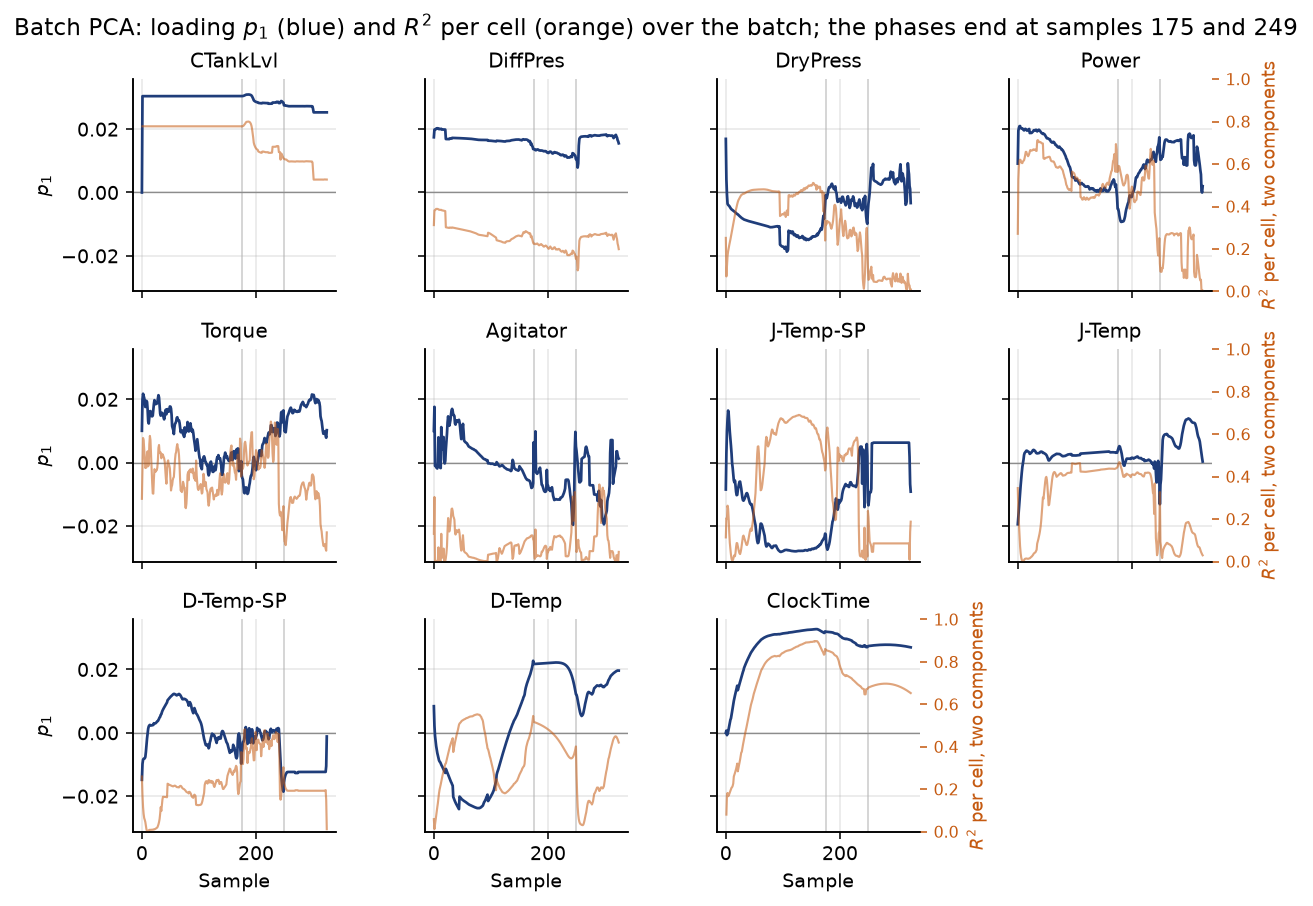
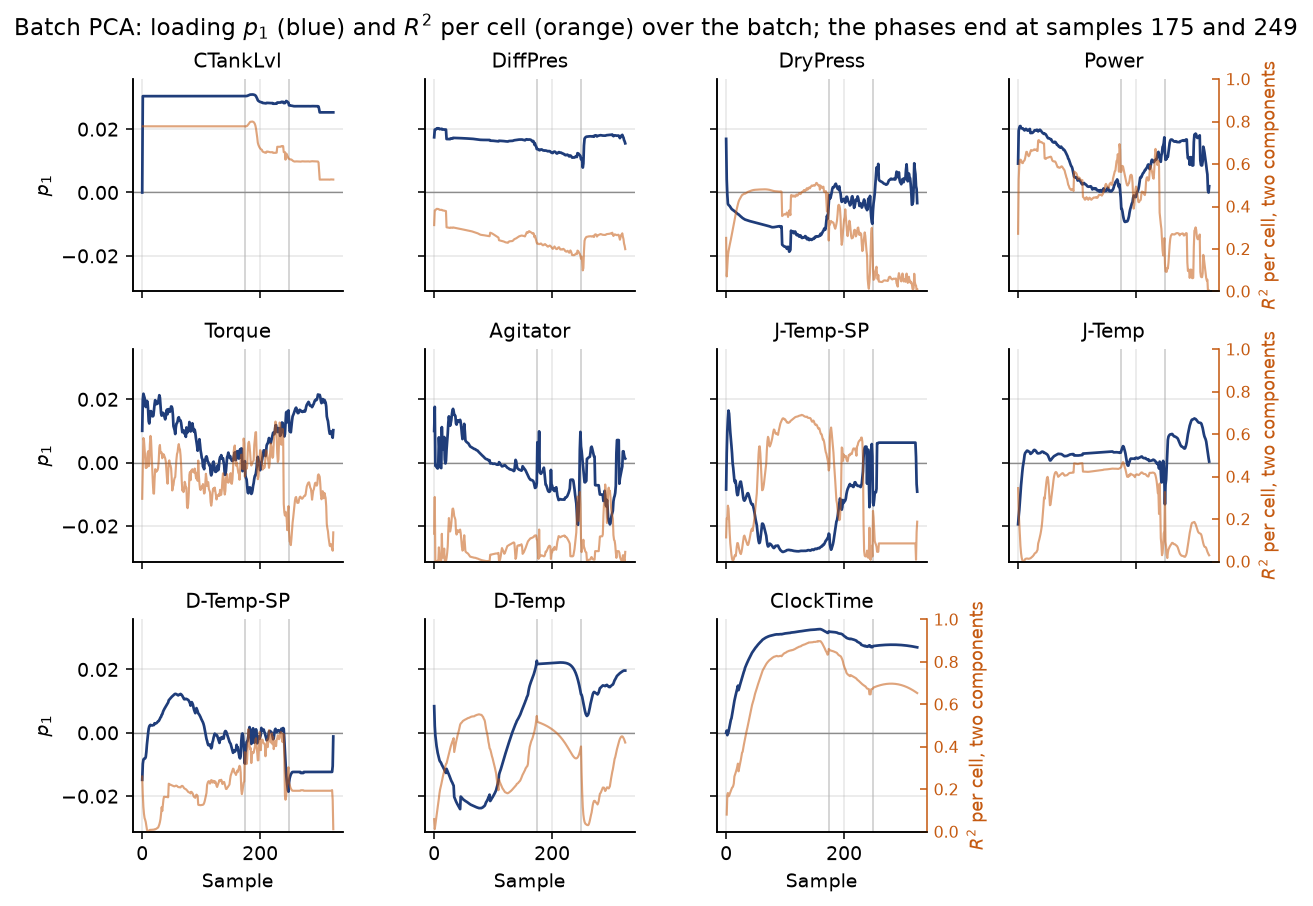
Give the R2 axis a spine so its numbers stop reading as negatives
The right-hand axis had no spine, so each tick mark sat hard against its
own label and the pair read as a minus sign: 1.0 looked like -1.0, on a
quantity that cannot be negative.

The axis line now separates them. The spine is drawn in the same orange as
the scale it belongs to, and the ticks point inward, into the plot area, so
the line always stands between a tick and its number.

Panels between the labelled ones lose their ticks as well as their labels.
Clearing the labels alone left orange dashes with no scale beside them,
which invited the same misreading against the left axis.

Only batch-case-fmc-loadings-p1.png changes.

Claude-Session: https://claude.ai/code/session_01LXthGpHLQFfGubBiKFtGAE

diff --git a/batch/batch_case_common.py b/batch/batch_case_common.py
@@ -637,13 +637,19 @@ def tag_panels(
             twin.set_ylim(0, 1)
             twin.grid(False)
             twin.spines["top"].set_visible(False)
-            twin.tick_params(axis="y", colors=ORANGE, labelsize=8)
             if k % ncols == ncols - 1 or k == len(tags) - 1:
+                # The spine matters. Without it a tick sits directly against its own label,
+                # so "1.0" reads as "-1.0" and a quantity that cannot be negative looks as
+                # though it is. Draw the axis line and point the ticks inward, into the plot,
+                # so the line always separates a tick from the number it belongs to.
+                twin.spines["right"].set_visible(True)
+                twin.spines["right"].set_color(ORANGE)
+                twin.tick_params(axis="y", colors=ORANGE, labelsize=8, direction="in")
                 twin.set_ylabel(secondary_label, color=ORANGE, fontsize=9)
             else:
-                # Clearing only the labels leaves the tick marks behind, orange dashes with
-                # no scale beside them. Read against the left axis, which runs negative, they
-                # make a quantity that cannot be negative look as though it is. Drop the ticks.
+                # No scale is shown on this panel, so clear the ticks as well as their labels:
+                # set_yticklabels([]) alone leaves orange dashes with nothing to read them by.
+                twin.spines["right"].set_visible(False)
                 twin.set_yticks([])
     for ax in axes.ravel()[len(tags) :]:
         ax.set_visible(False)
